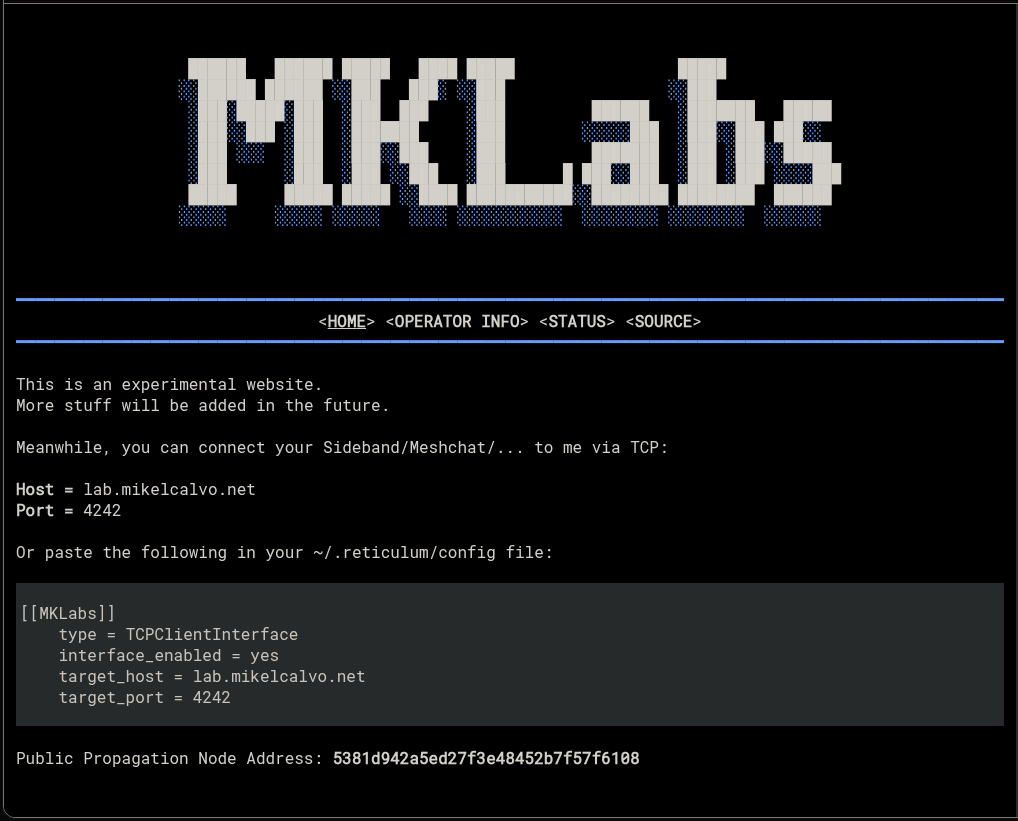
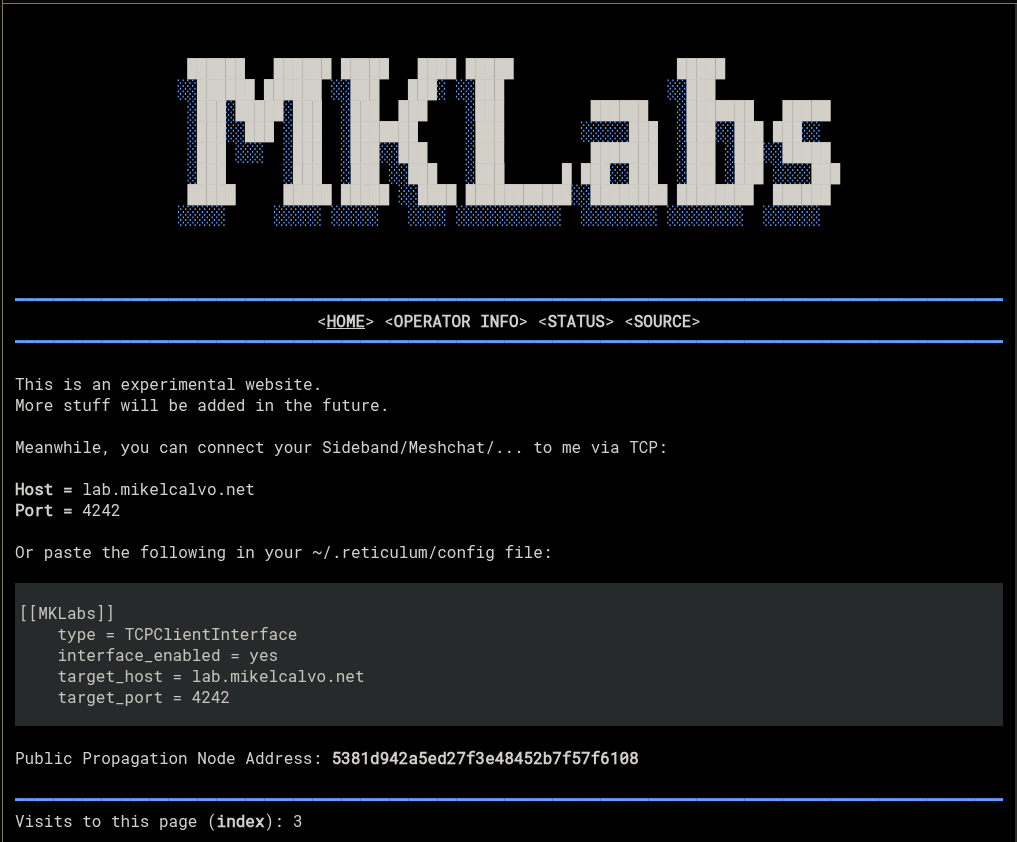
Added a visitor counter

Changed region(s): [[0.0, 0.335, 1.0, 1.0], [0.1524, 0.0609, 0.823, 0.2741], [0.5182, 0.5177, 0.6706, 0.5481]]

diff --git a/pages/views/footer.py b/pages/views/footer.py
@@ -1,0 +1,66 @@
+#!/usr/bin/env python3
+
+import json
+import os
+import time
+from typing import List, Dict, Any
+
+# Base directory of the project (one level above "pages")
+BASE_DIR = os.path.dirname(os.path.dirname(__file__))
+DATA_DIR = os.path.join(BASE_DIR, "data")
+LOG_FILE = os.path.join(DATA_DIR, "visits.json")
+
+
+def _ensure_data_dir() -> None:
+    try:
+        os.makedirs(DATA_DIR, exist_ok=True)
+    except OSError:
+        pass
+
+
+def _load_visits() -> List[Dict[str, Any]]:
+    try:
+        with open(LOG_FILE, "r", encoding="utf-8") as f:
+            data = json.load(f)
+            if isinstance(data, list):
+                return data
+    except (FileNotFoundError, json.JSONDecodeError, OSError):
+        pass
+    return []
+
+
+def _save_visits(entries: List[Dict[str, Any]]) -> None:
+    try:
+        with open(LOG_FILE, "w", encoding="utf-8") as f:
+            json.dump(entries, f, ensure_ascii=False, indent=2)
+    except OSError:
+        # If we can't write, just ignore persistence errors.
+        pass
+
+
+def _register_visit(page: str) -> int:
+    _ensure_data_dir()
+
+    entries = _load_visits()
+    entries.append(
+        {
+            "timestamp": int(time.time()),
+            "file": page,
+        }
+    )
+    _save_visits(entries)
+
+    return sum(1 for e in entries if e.get("file") == page)
+
+
+def get_footer(page: str) -> str:
+    visits = _register_visit(page)
+
+    return (
+        "`F00a\n"
+        "-━\n"
+        "`f\n"
+        f"`lVisits to this page (`!{page}`!): {visits}\n"
+    )
+
+

diff --git a/README.md b/README.md
@@ -8,6 +8,12 @@ It's still a work in progress, but you can already test it at the following addr
 3c81447dff85b425c79ca5a97ff75f75:/page/index.mu
 ```
 
+### Website Features
+
+- An isolated ccomponent for the logo
+- An isolated component for the topbar, with current page automatically highlighted
+- An isolated component for the footer, with the number of visits to each page
+
 ### Project Roadmap
 
 - [ ] Find an alternative header logo, current is broken on NomadNet (works on Meshchat)
@@ -25,3 +31,10 @@ More info and source code: [`NomadNet on GitHub`](https://github.com/markqvist/N
 Reticulum is a cryptographically secure networking stack built for resilient, censorship-resistant and delay-tolerant networks.  
 It allows you to build mesh networks over many different physical transports (LoRa, packet radio, Ethernet, IP, serial links, etc.).  
 More info and source code: [`Reticulum on GitHub`](https://github.com/markqvist/Reticulum).
+
+### Thanks to
+
+- [@markqvist](https://github.com/markqvist) for creating Reticulum & Nomad Network
+- [@liamcottle](https://github.com/liamcottle/reticulum-meshchat) for creating Meshchat
+- [@SebastianObiwan](https://github.com/SebastianObiwan) for creating the base page template I used as a starting point
+- [Spanish Reticulum Telegram channel](https://t.me/Reticulum_es) for helping me with my questions and testing the website
